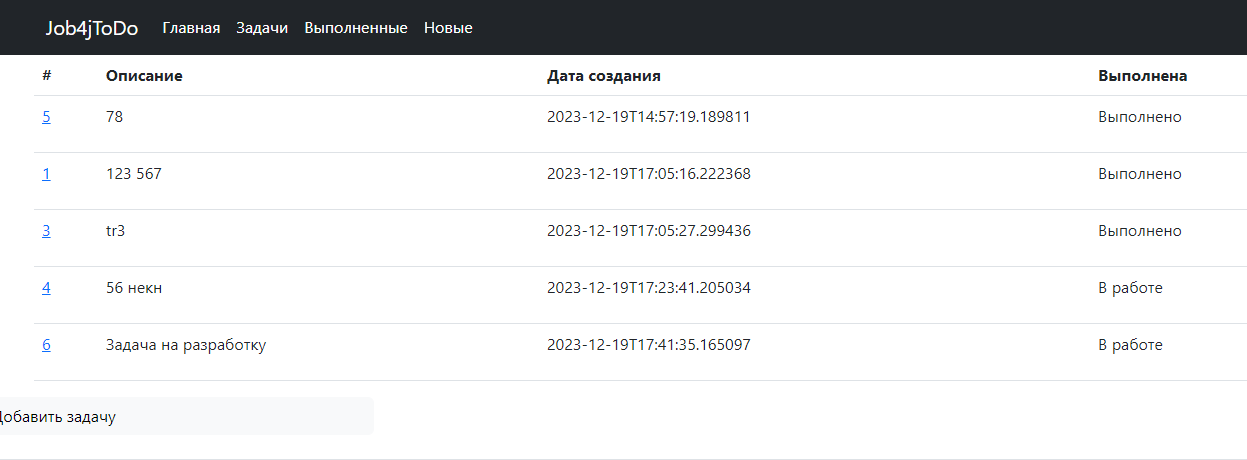
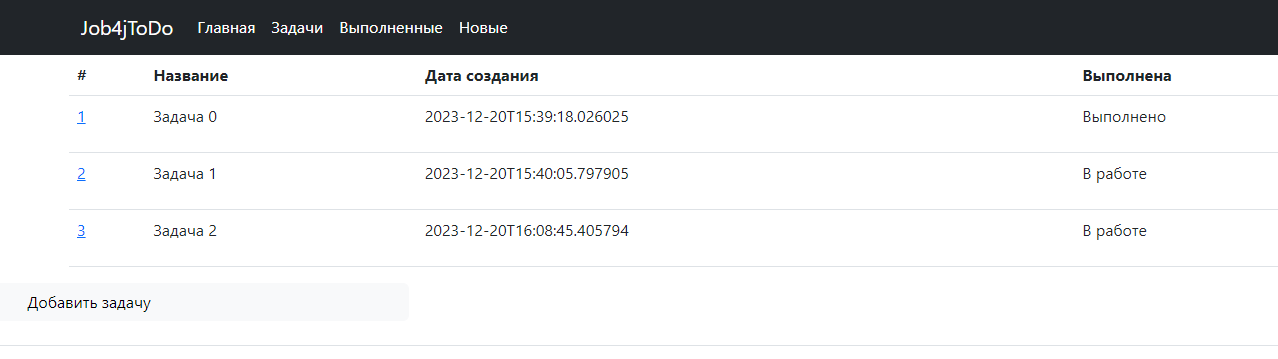
4. TODO list. Фикс

diff --git a/src/main/resources/templates/tasks/list.html b/src/main/resources/templates/tasks/list.html
@@ -21,7 +21,7 @@
                 <thead>
                 <tr>
                     <th scope="col">#</th>
-                    <th scope="col">Описание</th>
+                    <th scope="col">Название</th>
                     <th scope="col">Дата создания</th>
                     <th scope="col">Выполнена</th>
                 </tr>
@@ -29,7 +29,7 @@
                 <tbody>
                 <tr th:each="task: ${tasks}">
                     <td><a th:text="${task.id}" th:href="@{/tasks/{tId}(tId=${task.id})}"></a></td>
-                    <td th:text="${task.description}" />
+                    <td th:text="${task.title}" />
                     <td th:text="${task.created}"/>
                     <td th:switch="${task.done}">
                         <p th:case ="true">Выполнено</p>

diff --git a/src/main/resources/templates/tasks/one.html b/src/main/resources/templates/tasks/one.html
@@ -18,6 +18,10 @@
         <form class="mt-3" th:action="@{/tasks/setdone}" method="post" th:object="${task}" enctype="multipart/form-data">
             <input type="hidden" name="id" th:field="*{id}">
             <div class="mb-3">
+                <label for="title" class="form-label"><b>Название</b></label>
+                <input type="text" class="form-control" id="title" name="title" th:field="*{title}" placeholder="Название задачи" readonly>
+            </div>
+            <div class="mb-3">
                 <label for="description" class="form-label"><b>Описание</b></label>
                 <textarea class="form-control" id="description" name="description" th:field="*{description}" placeholder="Опишите задачу" readonly></textarea>
             </div>

diff --git a/src/main/resources/templates/tasks/update.html b/src/main/resources/templates/tasks/update.html
@@ -18,6 +18,10 @@
         <form class="mt-3" th:action="@{/tasks/update}" method="post" th:object="${task}" enctype="multipart/form-data">
             <input type="hidden" name="id" th:field="*{id}">
             <div class="mb-3">
+                <label for="title" class="form-label"><b>Название</b></label>
+                <input type="text" class="form-control" id="title" name="title" th:field="*{title}" placeholder="Название задачи">
+            </div>
+            <div class="mb-3">
                 <label for="description" class="form-label"><b>Описание</b></label>
                 <textarea class="form-control" id="description" name="description" th:field="*{description}" placeholder="Опишите задачу"></textarea>
             </div>

diff --git a/src/main/resources/templates/tasks/create.html b/src/main/resources/templates/tasks/create.html
@@ -17,6 +17,10 @@
     <div class="container">
         <form class="mt-3" th:action="@{/tasks/create}" method="post"  enctype="multipart/form-data">
             <div class="mb-3">
+                <label for="title" class="form-label"><b>Название</b></label>
+                <input type="text" class="form-control" id="title" name="title" placeholder="Предлагая должность, например, Ведущий Java разработчик">
+            </div>
+            <div class="mb-3">
                 <label for="description" class="form-label"><b>Описание</b></label>
                 <textarea class="form-control" id="description" name="description"   placeholder="Опишите описание задачи"></textarea>
             </div>

diff --git a/src/main/java/ru/job4j/todo/repository/HqlTaskRepository.java b/src/main/java/ru/job4j/todo/repository/HqlTaskRepository.java
@@ -8,6 +8,7 @@ import org.springframework.stereotype.Repository;
 import ru.job4j.todo.model.Task;
 
 import java.util.Collection;
+import java.util.Collections;
 import java.util.List;
 import java.util.Optional;
 
@@ -22,10 +23,10 @@ public class HqlTaskRepository implements TaskRepository {
     public Task save(Task task) {
         Session session = sf.openSession();
         try {
-        session.beginTransaction();
-        session.save(task);
-        session.getTransaction().commit();
-        }  catch (Exception e) {
+            session.beginTransaction();
+            session.save(task);
+            session.getTransaction().commit();
+        } catch (Exception e) {
             session.getTransaction().rollback();
         } finally {
             session.close();
@@ -45,12 +46,12 @@ public class HqlTaskRepository implements TaskRepository {
                     .executeUpdate();
             session.getTransaction().commit();
             result = true;
-        }  catch (Exception e) {
+        } catch (Exception e) {
             session.getTransaction().rollback();
         } finally {
             session.close();
         }
-        return  result;
+        return result;
     }
 
     @Override
@@ -60,15 +61,36 @@ public class HqlTaskRepository implements TaskRepository {
         try {
             session.beginTransaction();
             session.createQuery(
-                            "UPDATE Task SET description = :fDes, created = :fCreat, done = :fDone WHERE id = :fId")
+                            "UPDATE Task SET description = :fDes, title = :fT, done = :fDone WHERE id = :fId")
                     .setParameter("fDes", task.getDescription())
-                    .setParameter("fCreat", task.getCreated())
+                    .setParameter("fT", task.getTitle())
                     .setParameter("fDone", task.isDone())
                     .setParameter("fId", task.getId())
                     .executeUpdate();
             session.getTransaction().commit();
             result = true;
-        }  catch (Exception e) {
+        } catch (Exception e) {
+            session.getTransaction().rollback();
+        } finally {
+            session.close();
+        }
+        return result;
+    }
+
+    @Override
+    public boolean execute(Task task) {
+        Session session = sf.openSession();
+        boolean result = false;
+        try {
+            session.beginTransaction();
+            session.createQuery(
+                            "UPDATE Task SET done = :fDone WHERE id = :fId")
+                    .setParameter("fDone", true)
+                    .setParameter("fId", task.getId())
+                    .executeUpdate();
+            session.getTransaction().commit();
+            result = true;
+        } catch (Exception e) {
             session.getTransaction().rollback();
         } finally {
             session.close();
@@ -84,38 +106,24 @@ public class HqlTaskRepository implements TaskRepository {
             session.beginTransaction();
             result = Optional.of(session.get(Task.class, id));
             session.getTransaction().commit();
-        }  catch (Exception e) {
+        } catch (Exception e) {
             session.getTransaction().rollback();
         } finally {
             session.close();
         }
         return result;
-
-        /*Query<Task> query = null;
-        try {
-            session.beginTransaction();
-            query = session.createQuery(
-                    "from Task as i where i.id = :fId", Task.class);
-            query.setParameter("fId", id);
-            session.getTransaction().commit();
-        }  catch (Exception e) {
-            session.getTransaction().rollback();
-        } finally {
-            session.close();
-        }
-        return query.uniqueResultOptional();*/
     }
 
     @Override
     public Collection<Task> findAll() {
         Session session = sf.openSession();
-        List<Task> query = null;
+        List<Task> query = Collections.emptyList();
         try {
             session.beginTransaction();
             query = session.createQuery(
                     "from Task", Task.class).list();
             session.getTransaction().commit();
-        }  catch (Exception e) {
+        } catch (Exception e) {
             session.getTransaction().rollback();
         } finally {
             session.close();
@@ -126,21 +134,20 @@ public class HqlTaskRepository implements TaskRepository {
     @Override
     public Collection<Task> findNewOrDone(boolean done) {
         Session session = sf.openSession();
-        List<Task> query = null;
+        List<Task> query = Collections.emptyList();
         try {
             session.beginTransaction();
             query = session.createQuery(
-                    "from Task where done = :fDone", Task.class)
+                            "from Task where done = :fDone", Task.class)
                     .setParameter("fDone", done).list();
             session.getTransaction().commit();
-        }  catch (Exception e) {
+        } catch (Exception e) {
             session.getTransaction().rollback();
         } finally {
             session.close();
         }
         return query;
     }
-
 
 
 }

diff --git a/src/main/java/ru/job4j/todo/controller/TaskController.java b/src/main/java/ru/job4j/todo/controller/TaskController.java
@@ -64,18 +64,12 @@ public class TaskController {
 
     @PostMapping("/setdone")
     public String setDone(@ModelAttribute Task task, Model model) {
-        try {
-            task.setDone(true);
-            var isUpdated = taskService.update(task);
+            var isUpdated = taskService.execute(task);
             if (!isUpdated) {
                 model.addAttribute("message", "Задача с указанным идентификатором не найдена");
                 return "errors/404";
             }
             return "redirect:/tasks";
-        } catch (Exception exception) {
-            model.addAttribute("message", exception.getMessage());
-            return "errors/404";
-        }
     }
 
     @GetMapping("/update/{id}")
@@ -91,17 +85,12 @@ public class TaskController {
 
     @PostMapping("/update")
     public String update(@ModelAttribute Task task, Model model) {
-        try {
             var isUpdated = taskService.update(task);
             if (!isUpdated) {
                 model.addAttribute("message", "Задача с указанным идентификатором не найдена");
                 return "errors/404";
             }
             return "redirect:/tasks";
-        } catch (Exception exception) {
-            model.addAttribute("message", exception.getMessage());
-            return "errors/404";
-        }
     }
 
     @GetMapping("/delete/{id}")

diff --git a/src/main/java/ru/job4j/todo/model/Task.java b/src/main/java/ru/job4j/todo/model/Task.java
@@ -2,6 +2,7 @@ package ru.job4j.todo.model;
 
 import lombok.AllArgsConstructor;
 import lombok.Data;
+import lombok.EqualsAndHashCode;
 import lombok.NoArgsConstructor;
 
 import javax.persistence.*;
@@ -12,10 +13,13 @@ import java.time.LocalDateTime;
 @Data
 @NoArgsConstructor
 @AllArgsConstructor
+@EqualsAndHashCode(onlyExplicitlyIncluded = true)
 public class Task {
     @Id
     @GeneratedValue(strategy = GenerationType.IDENTITY)
+    @EqualsAndHashCode.Include
     private int id;
+    private String title;
     private String description;
     private LocalDateTime created = LocalDateTime.now();
     private boolean done;

diff --git a/src/main/java/ru/job4j/todo/service/SimpleTaskService.java b/src/main/java/ru/job4j/todo/service/SimpleTaskService.java
@@ -30,6 +30,11 @@ public class SimpleTaskService implements TaskService {
     }
 
     @Override
+    public boolean execute(Task task) {
+        return taskRepository.execute(task);
+    }
+
+    @Override
     public Optional<Task> findById(int id) {
         return taskRepository.findById(id);
     }

diff --git a/src/main/java/ru/job4j/todo/repository/TaskRepository.java b/src/main/java/ru/job4j/todo/repository/TaskRepository.java
@@ -12,6 +12,8 @@ public interface TaskRepository {
 
     boolean update(Task task);
 
+    boolean execute(Task task);
+
     Optional<Task> findById(int id);
 
     Collection<Task> findAll();

diff --git a/src/main/java/ru/job4j/todo/service/TaskService.java b/src/main/java/ru/job4j/todo/service/TaskService.java
@@ -12,6 +12,8 @@ public interface TaskService {
 
     boolean update(Task task);
 
+    boolean execute(Task task);
+
     Optional<Task> findById(int id);
 
     Collection<Task> findAll();

diff --git a/README.md b/README.md
@@ -4,14 +4,19 @@ http://job4j.ru/
 Проект для работы с задачами, с водзможностью добавлять/редактировать/удалять задачи и менять статус.
 Можно фильтровать выполненные и невыполненные задачи.
 
-Требования к окружению:
+###Требования к окружению:
 Java 17,
-PostgreSQL,
-Apache Maven
+PostgreSQL 14,
+Apache Maven 3.8.4
 
-Стек технологий: Spring boot, Thymeleaf, Bootstrap, Hibernate, PostgreSql
+###Стек технологий: 
+Spring boot 2.7.3, 
+Thymeleaf, 
+Bootstrap, 
+Hibernate 5.6.11.Final, 
+PostgreSql 42.2.9
 
-Этапы развертывания проекта:
+###Этапы развертывания проекта:
 1. Клонировать проект из этого репозитория;
 2. Создать локальную базу данных "todo";
 3. Прописать логин и пароль к созданной базе данных в файл db/liquibase.properties и hibernate.cfg.xml;
